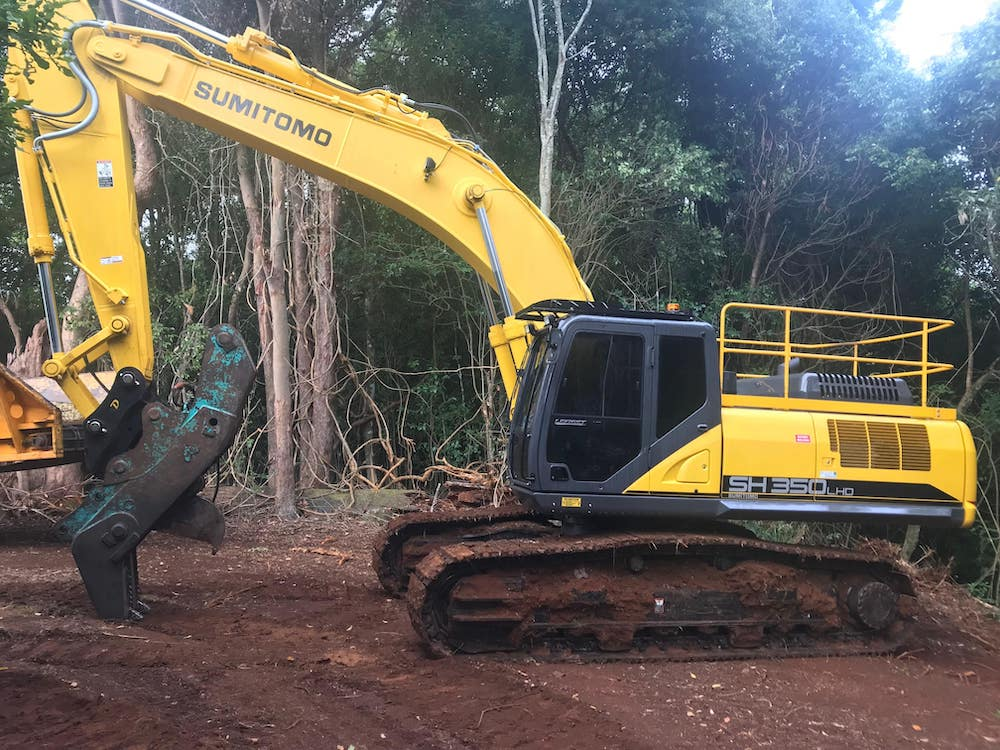
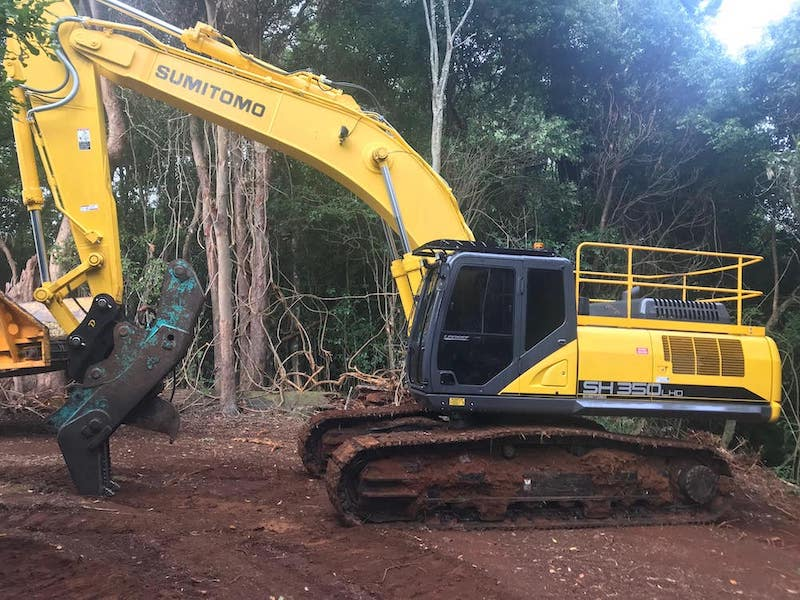
Updated image sizes

diff --git a/components/Home/HomeContent.js b/components/Home/HomeContent.js
@@ -45,15 +45,15 @@ export default function HomeContent() {
         <div className="lg:w-1/2 flex flex-col md:flex-row text-xl font-bold">
           <div className="flex flex-col md:w-1/2">
             <div className="px-4 pb-4">
-              <Image src="/images/excavator.jpg" alt="excavator" width={1600} height={1200} />
+              <Image src="/images/excavator.jpg" alt="excavator" width={800} height={600} />
               <h4>EXCAVATORS 8T TO 40T</h4>
             </div>
             <div className="px-4 pb-4">
               <Image
                 src="/images/horizontal-grinder.jpg"
                 alt="horizontal grinder"
-                width={1600}
-                height={1000}
+                width={1000}
+                height={600}
               />
               <h4>GRADER, GRINDER & CHIPPER</h4>
             </div>
@@ -61,7 +61,7 @@ export default function HomeContent() {
 
           <div className="flex flex-col md:w-1/2">
             <div className="px-4 pb-4">
-              <Image src="/images/dump-truck.jpg" alt="dump truck" width={1500} height={1200} />
+              <Image src="/images/dump-truck.jpg" alt="dump truck" width={750} height={600} />
               <h4>TRUCKS, TRAILERS & ROLLERS</h4>
             </div>
 
@@ -69,8 +69,8 @@ export default function HomeContent() {
               <Image
                 src="/images/vertical-grab.jpg"
                 alt="vertical grab"
-                width={1600}
-                height={1100}
+                width={1000}
+                height={700}
               />
               <h4>VERTICAL GRAB</h4>
             </div>
